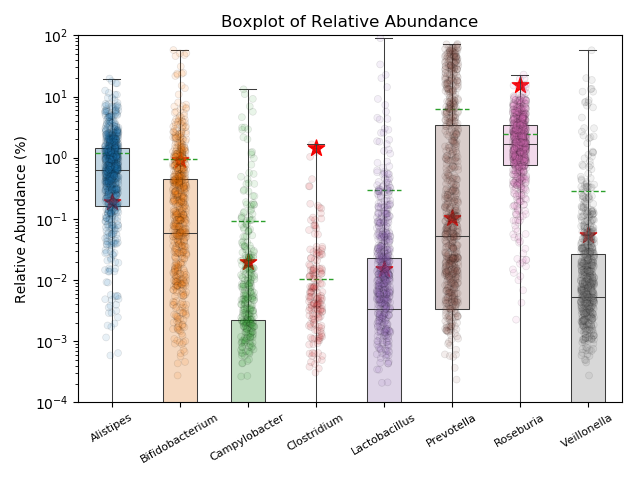
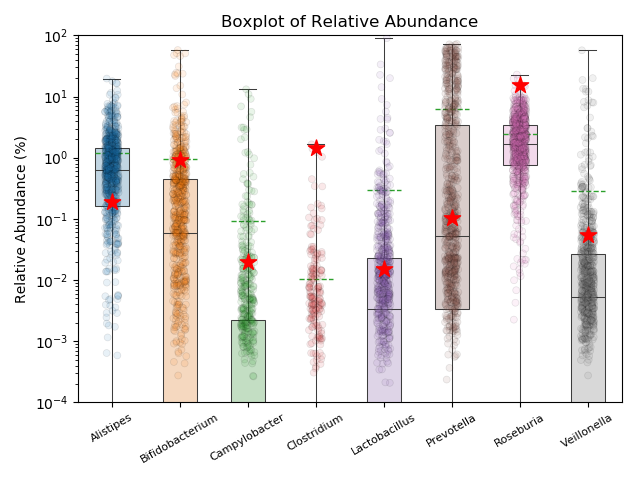
Bring scatter plot (stars) to foreground using zorder

diff --git a/uBiome_Study/uBiome_Study.py b/uBiome_Study/uBiome_Study.py
@@ -62,6 +62,8 @@ def create_boxplot_matplotlib(example_data, my_data, savefig):
     # Hence we begin the range of x-values from 1 instead of zero
     plt.scatter(list(range(1, len(example_data.columns)+1)), my_data.values[0], \
     color='r', marker='*', s=150)
+    plt.tight_layout()
+
     if savefig == True:
         plt.savefig('boxplot.png')
     else: plt.show()
@@ -91,7 +93,7 @@ def create_boxplot_seaborn(example_data, my_data, savefig):
 
     # Add individual values from user JSON
     plt.scatter(list(range(0, len(example_data.columns))), my_data.values[0], \
-    color='r', marker='*', s=150)
+    color='r', marker='*', s=150, zorder=25)
     plt.tight_layout()
 
     if savefig == True:
